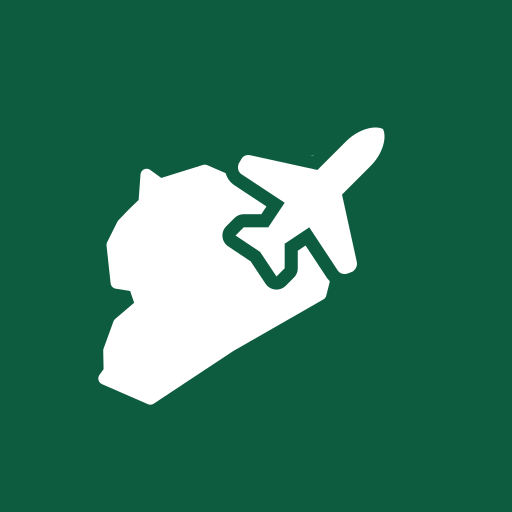
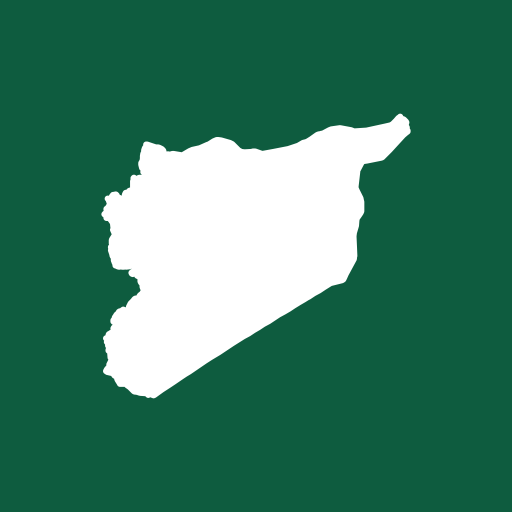
Make the mark Syria's real border
No plane, no trace: the mark is now the country's border from Natural
Earth 1:10m (public domain, via world-atlas), in white on the green tile.
Projected equirectangular with a cos(latitude) correction so the shape
is true, and thinned to points at least 0.15 units apart, which is
invisible at 512px and keeps the SVG around 5 KB.

Claude-Session: https://claude.ai/code/session_01X8VSWbUCzZVY9n4a14GRYw

diff --git a/README.md b/README.md
@@ -69,7 +69,7 @@ paste the URL and anon key into `.env.local`.
 Direction "Passport": cool grey ground, passport-green accent, outlined *stamp* chips for status,
 Readex Pro. Tokens are in `globals.css`; every component reads them, so restyling is one file.
 
-The brand mark is `src/app/icon.svg`: Syria in white on a passport-green tile, with the lucide plane taking off across its north-east border. Everything raster
+The brand mark is `src/app/icon.svg`: Syria's border from Natural Earth (public domain), in white on a passport-green tile. Everything raster
 (`favicon.ico`, `apple-icon.png`, the manifest icons in `public/`, `opengraph-image.png`) is generated from it
 by `npm run icons` and committed. The share card sets its text in Readex Pro, so install the font locally
 before regenerating it.
